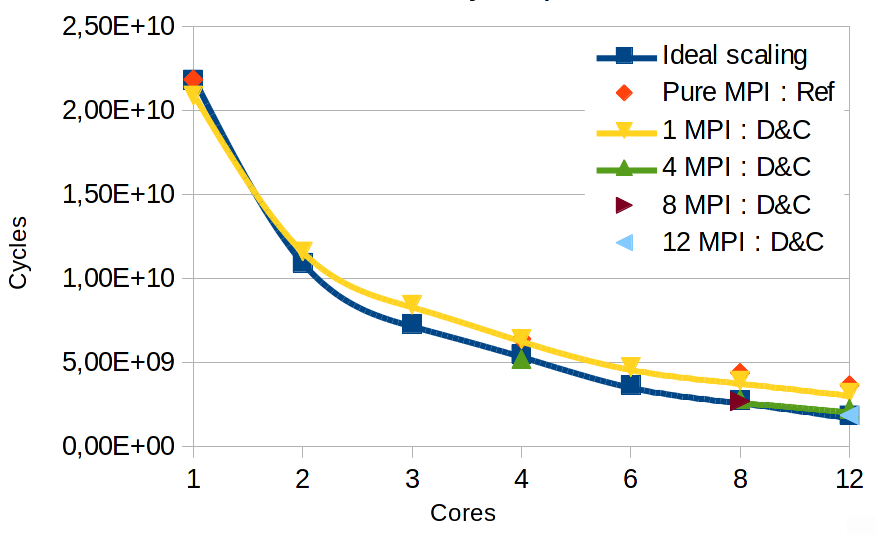
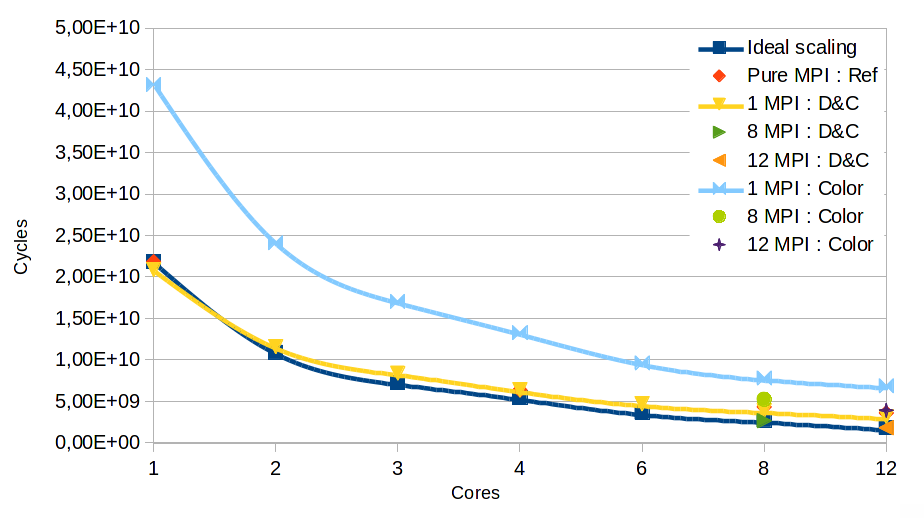
Add coloring curves & adapt experimental setup

diff --git a/defmesch_dc.tex b/defmesch_dc.tex
@@ -303,16 +303,17 @@ It is composed of 6 346 108 elements and 1 079 758 nodes and it represents the d
 \end{figure}
 
 \subsection{Experimental Setup}
-In the following experiments, we compare two versions of the DEFMESH application: the original one from Dassault Aviation called $Ref$ and the new Divide \& Conquer version called $D\&C$.
+In the following experiments, we compare three versions of the FEM assembly step from the DEFMESH application:
+the original one from Dassault Aviation called $Ref$, the new Divide \& Conquer version called $D\&C$, and the coloring version called $Color$.
 The original version uses MPI between the different blocks of the mesh and OpenMP to parallelize the sparse matrix-vector loop of the solver.
 The D\&C version uses the recursive partitioning of each block of the mesh.
 In addition to MPI and OpenMP, this version also exploits a Cilk task parallelism in the FEM assembly.
-We also compare our results to the coloring implementation of the FEM assembly, using OpenMP.
+The coloring version exploits OpenMP parallelism in the FEM assembly, between all the elements of a same color.
 
-For each of these versions, we consider the Laplacian and elasticity variants of DEFMESH.
+For each of these versions, we consider the Laplacian and the elastic variants of DEFMESH.
 For both of them, the application runs in 50 steps of resolution and the measures correspond to the average time of one iteration.
-In all cases we measure the FEM assembly step, where the D\&C approach has been applied.
-We also measure the solver to estimate the impact of the data permutations on the rest of the code.
+In all cases we measure the FEM assembly step, where the D\&C approach and the coloring have been applied.
+We also measure the solver to estimate the impact of the D\&C data permutations on the rest of the code.
 
 We present the results both in terms of execution times and of parallel efficiency.
 In all the graphics, the \emph{x} axis represents the number of cores. It corresponds to the number of MPI processes multiplied by the number of threads.
@@ -321,7 +322,7 @@ Concerning efficiency, the \emph{y} axis represents the parallel efficiency give
 $E_{P} = \frac{T_{S}}{P*T_{P}}$, where $E_{P}$ is the efficiency on $P$ processor, $T_{S}$ the sequential time, and $T_{P}$ the time on $P$ processors.
 
 For each figure, we use 1, 4, 8 and 12 MPI processes and 1 to 12 threads, OpenMP or Cilk, while the multiplication of MPI processes per thread is lower or equal to 12.
-This corresponds to the number of cores available. In all cases, the number of Cilk threads used in the FEM assembly is equal to the number of OpenMP threads used in the solver.
+This corresponds to the number of cores available. In all cases, the number of Cilk threads used in the FEM assembly is equal to the number of OpenMP threads.
 We also varied the number of METIS partitions and the number of Cilk tasks, but we have not observed significant changes in the results.
 According to the Cilk documentations, 10 tasks per core is appropriate. Therefore we use 128 Cilk tasks, which is also enough to fit in cache.
 We cut MPI domains in 512 partitions to improve locality.
@@ -331,15 +332,12 @@ We perform these experiments on twelve cores grouped in two sockets of 6 cores I
 Each core has its own L1 (32KB) and L2 (256KB) caches and a shared L3 cache of 12MB. The main memory is divided in two NUMA nodes of 16GB.
 
 \subsection{Results}
-The following sections present our measurement for the elastic and Laplacian version for the FEM assembly. 
-
-NOTE TO THE REVIEWERS: The experiments on coloring are in progress and will be included in the final version of the paper.
-
 \subsubsection{Assembly}
 As we can see in figures~\ref{fig:asmCurvesA} and~\ref{fig:asmCurvesC}, the D\&C approach is slower than pure MPI, especially when we increase the number of cores.
 This is due to the remaining sequential part of the D\&C code and the low intensity work in the Laplacian version.
 Indeed, separator elements are not parallelized and can represent an important proportion of the computation.
-According to the Amdahl law, by increasing the number of cores, the proportion of the sequential part increases. This is confirmed on figure~\ref{fig:asmCurvesC} showing the parallel efficiency.
+According to the Amdahl law, by increasing the number of cores, the proportion of the sequential part increases.
+This is confirmed on figure~\ref{fig:asmCurvesC} showing the parallel efficiency.
 
 In the elasticity variant, illustrated in figures~\ref{fig:asmCurvesB} and~\ref{fig:asmCurvesD}, the D\&C approach becomes equivalent to pure MPI.
 Since the amount of work of the FEM assembly step is bigger than in the laplacian variant, the proportion of the sequential computation, including the separators, is lower.
@@ -352,9 +350,9 @@ To conclude, these first results are encouraging and we can reasonably expect to
 \begin{figure}[htp]
  \centering
  \subfigure[Laplacian execution time]{\label{fig:asmCurvesA}\includegraphics[width=0.49\textwidth]{Laplacian_asm_time.png}}
-  \subfigure[Laplacian parallel efficiency]{\label{fig:asmCurvesC}\includegraphics[width=0.49\textwidth]{Laplacian_asm_efficiency.png}}
+  \subfigure[Laplacian parallel efficiency]{\label{fig:asmCurvesC}\includegraphics[width=0.5\textwidth]{Laplacian_asm_efficiency.png}}
  \subfigure[Elasticity execution time]{\label{fig:asmCurvesB}\includegraphics[width=0.49\textwidth]{Elasticity_asm_time.png}}
- \subfigure[Elasticity parallel efficiency]{\label{fig:asmCurvesD}\includegraphics[width=0.49\textwidth]{Elasticity_asm_efficiency.png}}
+ \subfigure[Elasticity parallel efficiency]{\label{fig:asmCurvesD}\includegraphics[width=0.5\textwidth]{Elasticity_asm_efficiency.png}}
  \caption{Assembly measures}
  \label{fig:asmCurves}
 \end{figure}
